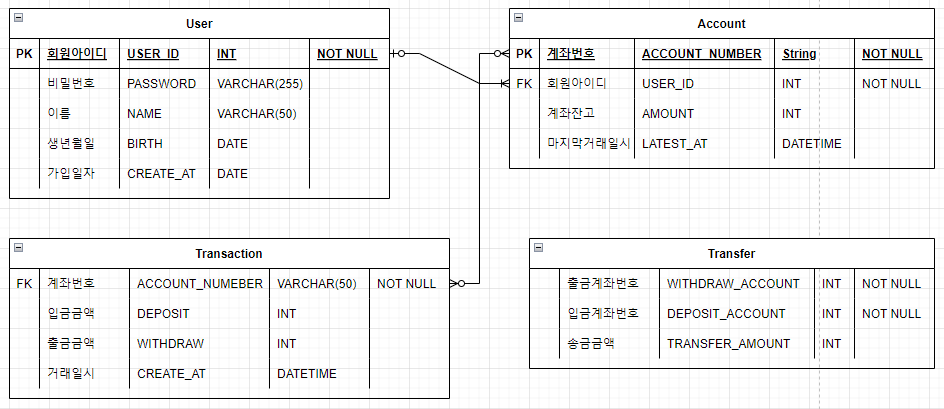
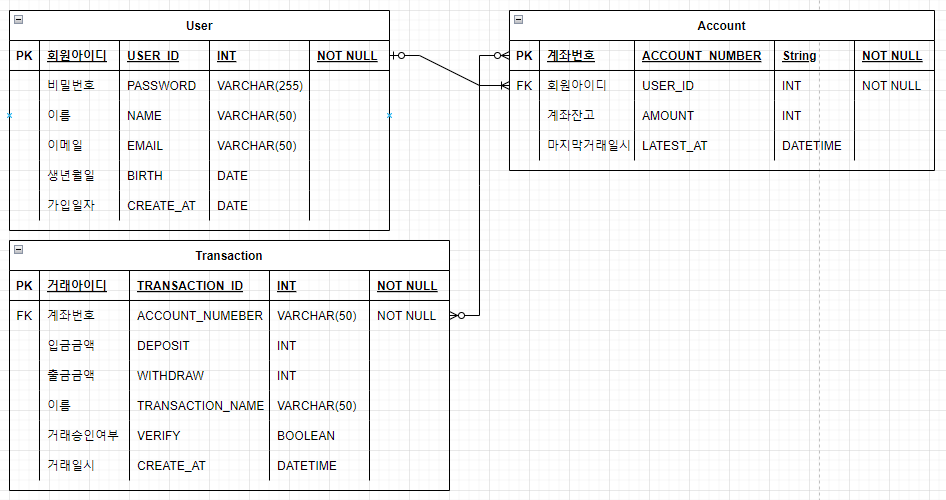
chore : README 수정
- 프로젝트 구조 수정
 - 유저 테이블 이메일 추가
 - 입출금 테이블 PK 추가, 입출금 이름, 거래 승인 여부 추가
 - ERD 수정
 - README 기능 구현 상세 기술

diff --git a/README.md b/README.md
@@ -31,14 +31,14 @@
 
 ### 회원가입
 
-- [ ] 회원 가입 (아이디, 비밀번호, 이름, 생년월일)
+- [ ] 회원 가입 (아이디, 비밀번호, 이름, 이메일, 생년월일)
 - [ ] 유효성 검사 (기가입 아이디, 이름)
 
 ### 로그인
 
 - [ ] 로그인 토큰 발행
 - [ ] 로그인 토큰을 통한 제어 확인 (JWT, Filter를 사용해서 간략하게)
-- [ ] 로그인 유효성 검사 (미가입 이메일, 비밀번호 비일치)
+- [ ] 로그인 유효성 검사 (미가입 아이디, 비밀번호 비일치)
 
 ---
 
@@ -55,14 +55,25 @@
 - [ ] 계좌 금액 출금
 - [ ] 계좌 입출금 내역 조회 (전체, 입금만, 출금만)
 
+
+- 추가 구현 계획
+  - [ ] 하루 최대 입출금 금액 제한
+  - [ ] 하루 최대 입출금 회수 제한
+
 ## 🔍 계좌 검색 기능
 
 - [ ] 본인 계좌 검색
+- [ ] 송금 내역 있는 계좌 검색
+- [ ] 계좌 조회 페이징
 
 ## 💸 계좌 송금 기능
 
 - [ ] 계좌 송금
 - [ ] 송금 내역 조회
+
+
+- 추가 구현 계획
+  - [ ] 대량 송금 시 이메일 인증 후 송금 (mailgun)
 
 ---
 
